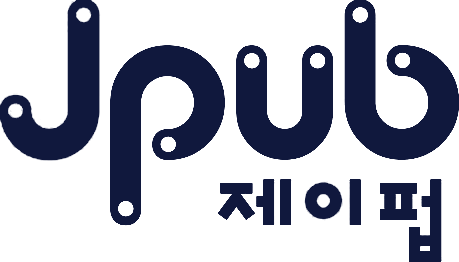
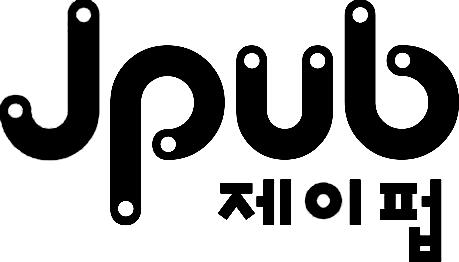
feat: 스폰서 로고 교체 및 블랙 통일

diff --git a/src/data/site.ts b/src/data/site.ts
@@ -639,9 +639,9 @@ export const SPONSORS_SECTION = {
       sponsors: [
         {
           name: "토스",
-          src: assetPath("/images/sponsor-toss.png"),
-          width: 450,
-          height: 137,
+          src: assetPath("/images/sponsor-toss.svg"),
+          width: 659,
+          height: 200,
         },
       ],
     },
@@ -664,9 +664,9 @@ export const SPONSORS_SECTION = {
       sponsors: [
         {
           name: "티켓타코",
-          src: assetPath("/images/sponsor-ticketaco.png"),
-          width: 520,
-          height: 208,
+          src: assetPath("/images/sponsor-ticketaco.svg"),
+          width: 1251,
+          height: 415,
         },
         {
           name: "제이펍",

diff --git a/src/app/globals.css b/src/app/globals.css
@@ -3662,7 +3662,7 @@ body {
   font-size: clamp(28px, 3.1vw, 42px);
   font-weight: 800;
   line-height: 1.15;
-  color: var(--color-ink);
+  color: #000;
   text-align: center;
 }
 
